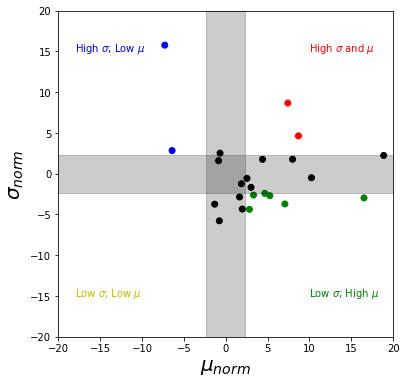
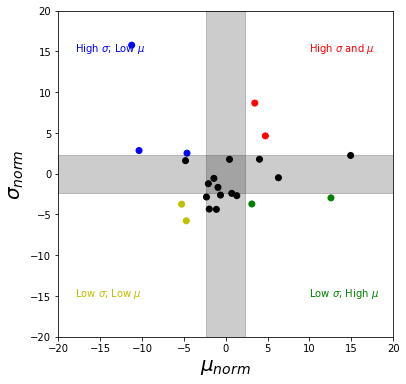
Updating quadrant figure and adding more detail on spatial filtering.

diff --git a/_posts/2019-03-12-Modelling-accessibility-by-suburb.md b/_posts/2019-03-12-Modelling-accessibility-by-suburb.md
@@ -9,8 +9,10 @@ sidebar:
 
 *__WORK IN PROGRESS__*
 
+# Summary
+
 # Introduction
-Before diving into the nitty gritty of modelling accessibility across the different suburbs, it's worth taking a high-level persepective into _why_ modelling is useful. I hope to make the case that approximating reality with models, allows us to dredge up some deep and useful insights: (1) the accessibility characteristics of a suburb and, (2) reasons why some certain suburban characteristics don't fit our approximations.
+Before diving into the nitty gritty of modelling accessibility across the different suburbs, it's worth taking a high-level persepective into _why_ modelling is useful. All the blog posts in ther series  I hope to make the case that approximating reality with models, allows us to dredge up some deep and useful insights: (1) the accessibility characteristics of a suburb and, (2) reasons why some suburban characteristics don't fit our approximations.
 
 
 ## The goal of statistical modelling
@@ -63,13 +65,19 @@ In the [previous post](https://shriv.github.io/Impact-of-hills-on-walking-to-pla
 
 Comparisons can be done with single point values alone. But, robust comparisons rely on statistical inference - the most classic being the [_t-test for comparing two means_](https://en.wikipedia.org/wiki/Student%27s_t-test). In the following section, we will see how we can robustly compare suburbs using a statistical model.
 
-Adding a model for comparing suburbs has further utility that can answer some important questions:
+
+## Models for decision making
+Adding a model for comparing suburbs has further utility - they can be used for explicit or qualitative decision making. Exolicit decisions are appropriate in a business context since executives want to know the best option. This series is more focused on exploration and building a qualitative picture guided by metrics and analyses.
 
 > Can we summarise the playground accessibility characteristic for a given suburb?
 
-> Which suburbs don't follow the approximation set by the model? Can we use our domain knowledge to understand why?
+This question can help understand how "family-friendly" a particular suburb is. Young families can compare the suburb accessibility characteristics to help make the decision for a move.
 
-The first question in particular can help understand how "family-friendly" a particular suburb is. Young families can compare the suburb accessibility characteristics to help make the decision for a move.
+The main model is specifically designed for an intuitive comparative analysis, allowing for two levels of qualitiative comparison: (1) comparing a single suburb to the city average or, (2) comparing two suburbs together.
+
+## Models to support domain understanding
+
+> Which suburbs don't follow the approximation set by the model? Can we use our domain knowledge to understand why?
 
 
 # Technical details
@@ -96,19 +104,45 @@ To do this analysis, we need to overcome some technical aspects:
 | Wellington street network with elevation | - | OpenStreetMap + Google Elevation API via osmnx|
 
 
-
 # Accessibility by Wellington suburb
+In all the previous posts (and series), we've only looked at accessibility for all of Wellington. Here, we show that the accessibility data can be filtered by the spatial boundary of choice. This is done by some clever geoprocessing enabled by _geopandas_.
 
+The steps are pretty simple:
+- Extract node coordinates and accessibility from pandana network
+- Convert node coordinates to geoseries
+- Tag nodes within a suburb boundary using the _contain_ operation.
+
+```{python}
+# Extract node coordinates and accessibility from pandana network
+orig_nodes = network_hills.nodes_df
+df_joined = pd.merge(orig_nodes.reset_index(),
+                     total_hills_1.reset_index(),
+                     how='inner')
+df_joined.columns = ['node_id', 'lon', 'lat', 'accessibility']
+
+# Convert lat and lon to geoseries
+df_joined_coords = dp.coords_df_to_geopandas_points(df_joined,
+                                                    crs={'init': 'epsg:4167'})
+
+# Get suburb values for accessibility data
+playground_df = geopandas.sjoin(wcc_suburbs,
+                                df_joined_coords,
+                                op='contains').drop('index_right', axis=1)
+```
 
 ## Visualising accessibility within suburb boundaries
+With a dataframe containing both the accessibility information and the suburb, we can filter and plot the accessibility for specific suburbs. We just need the accessibility data for the suburb and the boundary information to overlay the two datasets.
 
+```{python}
+karori_accessibility = playground_df[playground_df['suburb'] == 'Karori']
+karori_boundary = wcc_suburbs[wcc_suburbs['suburb'] == 'Karori']
+```
 
 ![](../images/2019-03-12-Modelling-accessibility-by-suburb/output_20_0.png)
 
 
-![](../images/2019-03-12-Modelling-accessibility-by-suburb/output_21_0.png)
-
 ## Extracting accessibility distributions by suburb
+The same filters used to plot the accessibility heatmap within a suburb can be used to extract the accessibility values alone without any spatial information. This raw accessibility data is the basis for our statistical model. 
 
 ![](../images/2019-03-12-Modelling-accessibility-by-suburb/output_18_0.png)
 
@@ -153,11 +187,10 @@ convergence, Rhat=1).
 
 ## Checking model performance with posterior predictive
 
-### Good fit
+
 ![](../images/2019-03-12-Modelling-accessibility-by-suburb/output_34_0.png)
 
 
-### Poor fit
 ![](../images/2019-03-12-Modelling-accessibility-by-suburb/output_49_0.png)
 
  - Doesn't capture modes - likely due to the fact that Rongotai has both a residential and an industrial area.
@@ -174,6 +207,7 @@ convergence, Rhat=1).
 ## Results for $\sigma$
 ![](../images/2019-03-12-Modelling-accessibility-by-suburb/output_44_0.png)
 
+
 ## Quadrant visualisation
 We can visualise both the $\mu$ and $\sigma$ values on a single graph to identify suburbs that are outside the average along both parameters. The best way to look at suburbs outside the average is with a classic "quadrant" plot.
 
@@ -182,23 +216,25 @@ Quadrant plots show points along an intuitive
 ![](../images/2019-03-12-Modelling-accessibility-by-suburb/output_45_0.png)
 
 
-### High $\sigma$
+###  Suburbs with consistent accessibility
 
 | suburb | quadrant | $\sigma$ | $\mu$ |
 |--- |--- |--- |--- |
-|Khandallah|High $\sigma$ and $\mu$|4.641167|8.685588|
-|Karori|High $\sigma$ and $\mu$|8.664240|7.424094|
-|Tawa|High $\sigma$; Low $\mu$|2.839867|-6.406689|
-|Brooklyn|High $\sigma$; Low $\mu$|15.768424|-7.285322|
+|Te Aro|Low $\sigma$ and $\mu$|-4.714889|-5.776039|
+|Newtown|Low $\sigma$ and $\mu$|-5.269459|-3.736698|
+|Pipitea|Low $\sigma$; High$\mu$|12.573367|-2.964546|
+|Hataitai|Low $\sigma$; High$\mu$|3.120148|-3.707169|
 
-
-### Low $\sigma$
+### Suburbs with inconsistent accessibility
 
 | suburb | quadrant | $\sigma$ | $\mu$ |
 |--- |--- |--- |--- |
-|Pipitea|Low $\sigma$; High $\mu$|-2.964546|16.522374|
-|Hataitai|Low $\sigma$; High $\mu$|-3.707169|7.069155|
-|Wellington Central|Low $\sigma$; High $\mu$|-2.408587|4.671688|
-|Kelburn|Low $\sigma$; High $\mu$|-2.693675|5.273022|
-|Miramar|Low $\sigma$; High $\mu$|-2.618647|3.321520|
-|Mount Cook|Low $\sigma$; High $\mu$|-4.369413|2.831357|
+|Newlands|High $\sigma$; Low$\mu$|-4.628588|2.523033|
+|Tawa|High $\sigma$; Low$\mu$|-10.355696|2.839867|
+|Brooklyn|High $\sigma$; Low$\mu$|-11.234330|15.768424|
+
+
+| suburb | quadrant | $\sigma$ | $\mu$ |
+|--- |--- |--- |--- |
+|Khandallah|High $\sigma$ and $\mu$|4.736581|4.641167|
+|Karori|High $\sigma$ and $\mu$|3.475087|8.664240|
